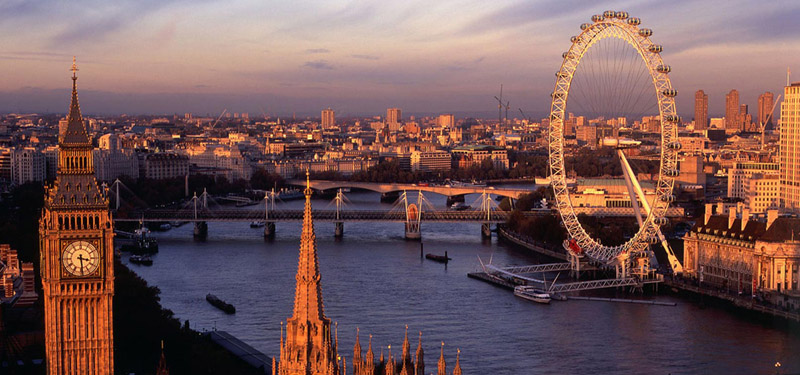
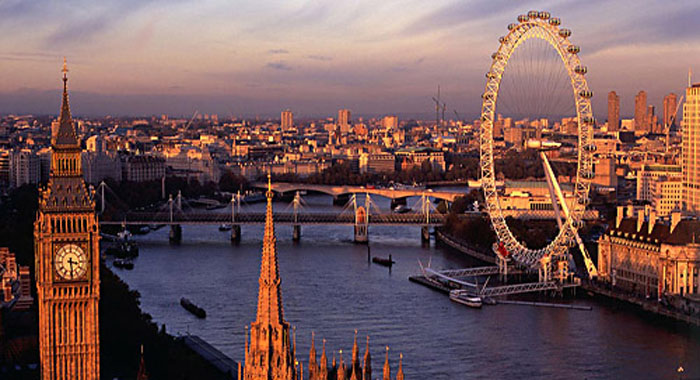
bilder
nya bilder

diff --git a/style.css b/style.css
@@ -63,8 +63,8 @@ left: 30px;
 posistion:relative;
 margin:auto;
 margin-top:100px;
-max-width:700px;
-max-height:380px;
+width:700px;
+height:380px;
 
 }
 .nav nav{
